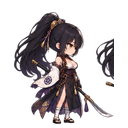
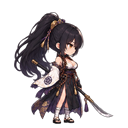
fix: clean Chikage runtime sprite layers

Changed region(s): [[0.75, 0.2812, 0.9062, 0.6875]]

diff --git a/tools/clean_chikage_runtime_layers.py b/tools/clean_chikage_runtime_layers.py
@@ -1,0 +1,47 @@
+from pathlib import Path
+import shutil
+
+import cv2
+from PIL import Image
+
+
+ROOT = Path(__file__).resolve().parents[1]
+SOURCE = ROOT / "chikage_oboro_rin_split_assets_v1/chikage/runtime"
+CANDIDATE = ROOT / "assets/candidates/characters/chikage/runtime-cleanup-v1"
+PUBLIC = ROOT / "public/assets/battle/characters/chikage/runtime"
+POSES = ("idle-a", "idle-b", "ready", "attack-a", "attack-b", "hit-a", "hit-b", "down")
+
+
+def keep_primary_layer(source: Path, target: Path) -> None:
+    image = cv2.imread(str(source), cv2.IMREAD_UNCHANGED)
+    if image is None or image.shape[2] != 4:
+        raise ValueError(f"Expected RGBA PNG: {source}")
+
+    opaque = (image[:, :, 3] > 8).astype("uint8")
+    count, labels, stats, _ = cv2.connectedComponentsWithStats(opaque, 8)
+    if count > 1:
+        primary = 1 + stats[1:, cv2.CC_STAT_AREA].argmax()
+        image[labels != primary] = 0
+
+    target.parent.mkdir(parents=True, exist_ok=True)
+    if not cv2.imwrite(str(target), image):
+        raise OSError(f"Could not write {target}")
+
+
+def build_sheet(directory: Path) -> None:
+    sheet = Image.new("RGBA", (512, 256))
+    for index, pose in enumerate(POSES):
+        frame = Image.open(directory / f"chikage-{pose}.png").convert("RGBA")
+        sheet.alpha_composite(frame, ((index % 4) * 128, (index // 4) * 128))
+    sheet.save(directory / "chikage-runtime-sheet.png")
+
+
+for pose in POSES:
+    filename = f"chikage-{pose}.png"
+    keep_primary_layer(SOURCE / filename, CANDIDATE / filename)
+
+build_sheet(CANDIDATE)
+
+for destination in (SOURCE, PUBLIC):
+    for path in CANDIDATE.glob("*.png"):
+        shutil.copy2(path, destination / path.name)

diff --git a/assets/ASSET_PROVENANCE.md b/assets/ASSET_PROVENANCE.md
@@ -43,6 +43,7 @@ Project-authored journey prototype: `public/assets/journey/world01/train-token-t
 |---|---|---|---|---|
 | `characters/rin/runtime/*.png`, `characters/rin/portraits/*.png`, `characters/rin/fx/*.png` | Amamiya Rin 8-pose side-view runtime, portraits and FX | User-provided project asset | Provenance/license pending; prototype runtime only | `chikage_oboro_rin_split_assets_v1/amamiya-rin/` for the corrected side-view runtime; `momiji_rin_single_assets_v1/amamiya-rin/` for portraits and FX |
 | `characters/chikage/**` | Chikage 8-pose side-view runtime, portraits and FX | User-provided project asset | Provenance/license pending; prototype runtime only | `chikage_oboro_rin_split_assets_v1/chikage/` |
+| `assets/candidates/characters/chikage/runtime-cleanup-v1/*.png` | Chikage 8-pose runtime alpha-layer cleanup | Deterministic connected-component cleanup of the user-provided runtime PNGs | Runtime candidate; identity and primary pose pixels unchanged | Removed only disconnected neighboring-frame fragments, then rebuilt the 4x2 runtime sheet; source references remain preserved |
 | `characters/oboro/**` | Oboro 8-pose side-view runtime, portraits and FX | User-provided project asset | Provenance/license pending; prototype runtime only | `chikage_oboro_rin_split_assets_v1/oboro/` |
 | `characters/mo/**` | Momiji 8-pose side-view runtime, portraits and FX | User-provided project asset | Provenance/license pending; prototype runtime only | `momiji_rin_single_assets_v1/momiji/` |
 

diff --git a/docs/PLANNING_LOG.md b/docs/PLANNING_LOG.md
@@ -822,3 +822,9 @@ Sim 尚未重跑：需要另外對 `CombatSimulation.simulateOne` 跑一次 5000
 
 - Kept the stable character identity `mo` and fourth DEMO `actorIndex`, but corrected its visual `assetPrefix` from the mistakenly copied `mo` runtime set to the approved `redleaf` production set.
 - Added a roster regression test locking the current DEMO order (`rin`, `chikage`, `oboro`, `mo`) without treating that order as permanent formation identity.
+
+## 2026-08-20 — Clean Chikage runtime action layers
+
+- Audited all eight Chikage runtime poses after the action screenshot exposed a horizontally flipped blade fragment.
+- Added deterministic primary-layer cleanup, preserved the original reference crops, wrote a versioned candidate set, synchronized the package/runtime copies, and rebuilt the 4x2 runtime sheet.
+- Cleanup is restricted to disconnected neighboring-frame fragments; the character silhouette, intended weapon, pose, scale, and pivot remain unchanged.
